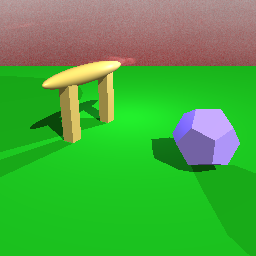
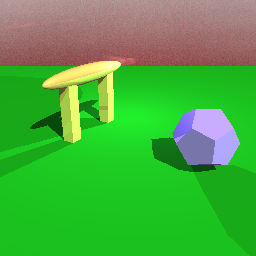
Fixed bug

Changed region(s): [[0.1562, 0.25, 0.4688, 0.5625], [0.6875, 0.5312, 0.7188, 0.5625]]

diff --git a/A4/A4.cpp b/A4/A4.cpp
@@ -63,7 +63,7 @@ void A4_Render(
             Ray* ray = makePrimitiveRay(x, y, w, h, a, b, eye, _view);
             Intersection* intersection = root->intersect(ray);
             vec3 color = illuminate(
-                intersection, lights, ambient, ray, root);
+                intersection, lights, ambient, ray, root, 0);
 
             if (!intersection) {
                 int img_x = (((float)x/w) * img_w);
@@ -106,10 +106,11 @@ glm::vec3 illuminate(
     const std::list<Light* >& lights,
     const glm::vec3& ambient,
     Ray* ray,
-    SceneNode* root
+    SceneNode* root,
+    int recur_depth
 ) {
     vec3 c(0, 0, 0);
-    if (intersection) {
+    if (intersection && recur_depth < 3) {
         PhongMaterial* m = dynamic_cast<PhongMaterial *>(intersection->material);
         if (m == NULL) {
             return c;
@@ -131,6 +132,21 @@ glm::vec3 illuminate(
             Intersection* lightIntersection = root->intersect(&light_ray);
             if (lightIntersection) {
                 continue;
+            }
+
+            // Cast reflection ray
+            vec3 rray = glm::normalize((float)(2 * glm::dot(n,v)) * n - v);
+            Ray reflection_ray;
+            reflection_ray.eye = intersection->point + 0.01 * rray;
+            reflection_ray.dir = rray;
+
+            Intersection* reflectIntersection = root->intersect(&reflection_ray);
+            if (reflectIntersection) {
+                vec3 rcolor = illuminate(
+                    reflectIntersection, lights, ambient, &reflection_ray, root, recur_depth + 1);
+                for (int i = 0; i < 3; i++) {
+                    c[i] += 0.01 * m->m_ks[i] * m->m_shininess * rcolor[i];
+                }
             }
 
             double nl = glm::dot(l, n);

diff --git a/A4/Primitive.cpp b/A4/Primitive.cpp
@@ -312,7 +312,8 @@ bool NonhierBox::intersect(glm::vec3 orig, glm::vec3 dir, glm::vec3& p, glm::vec
             break;
         }
     }
-    if (i > 1 || roots[i] == DBL_MIN || roots[i] == DBL_MAX) {
+
+    if (i > 1 || (roots[i] == DBL_MIN && roots[i] == DBL_MAX)) {
         // All negative
         return false;
     }

diff --git a/A4/A4.hpp b/A4/A4.hpp
@@ -30,4 +30,5 @@ glm::vec3 illuminate(
     const std::list<Light *>& lights,
     const glm::vec3& ambient,
     Ray* ray,
-    SceneNode* root);
+    SceneNode* root,
+    int recur_depth);
